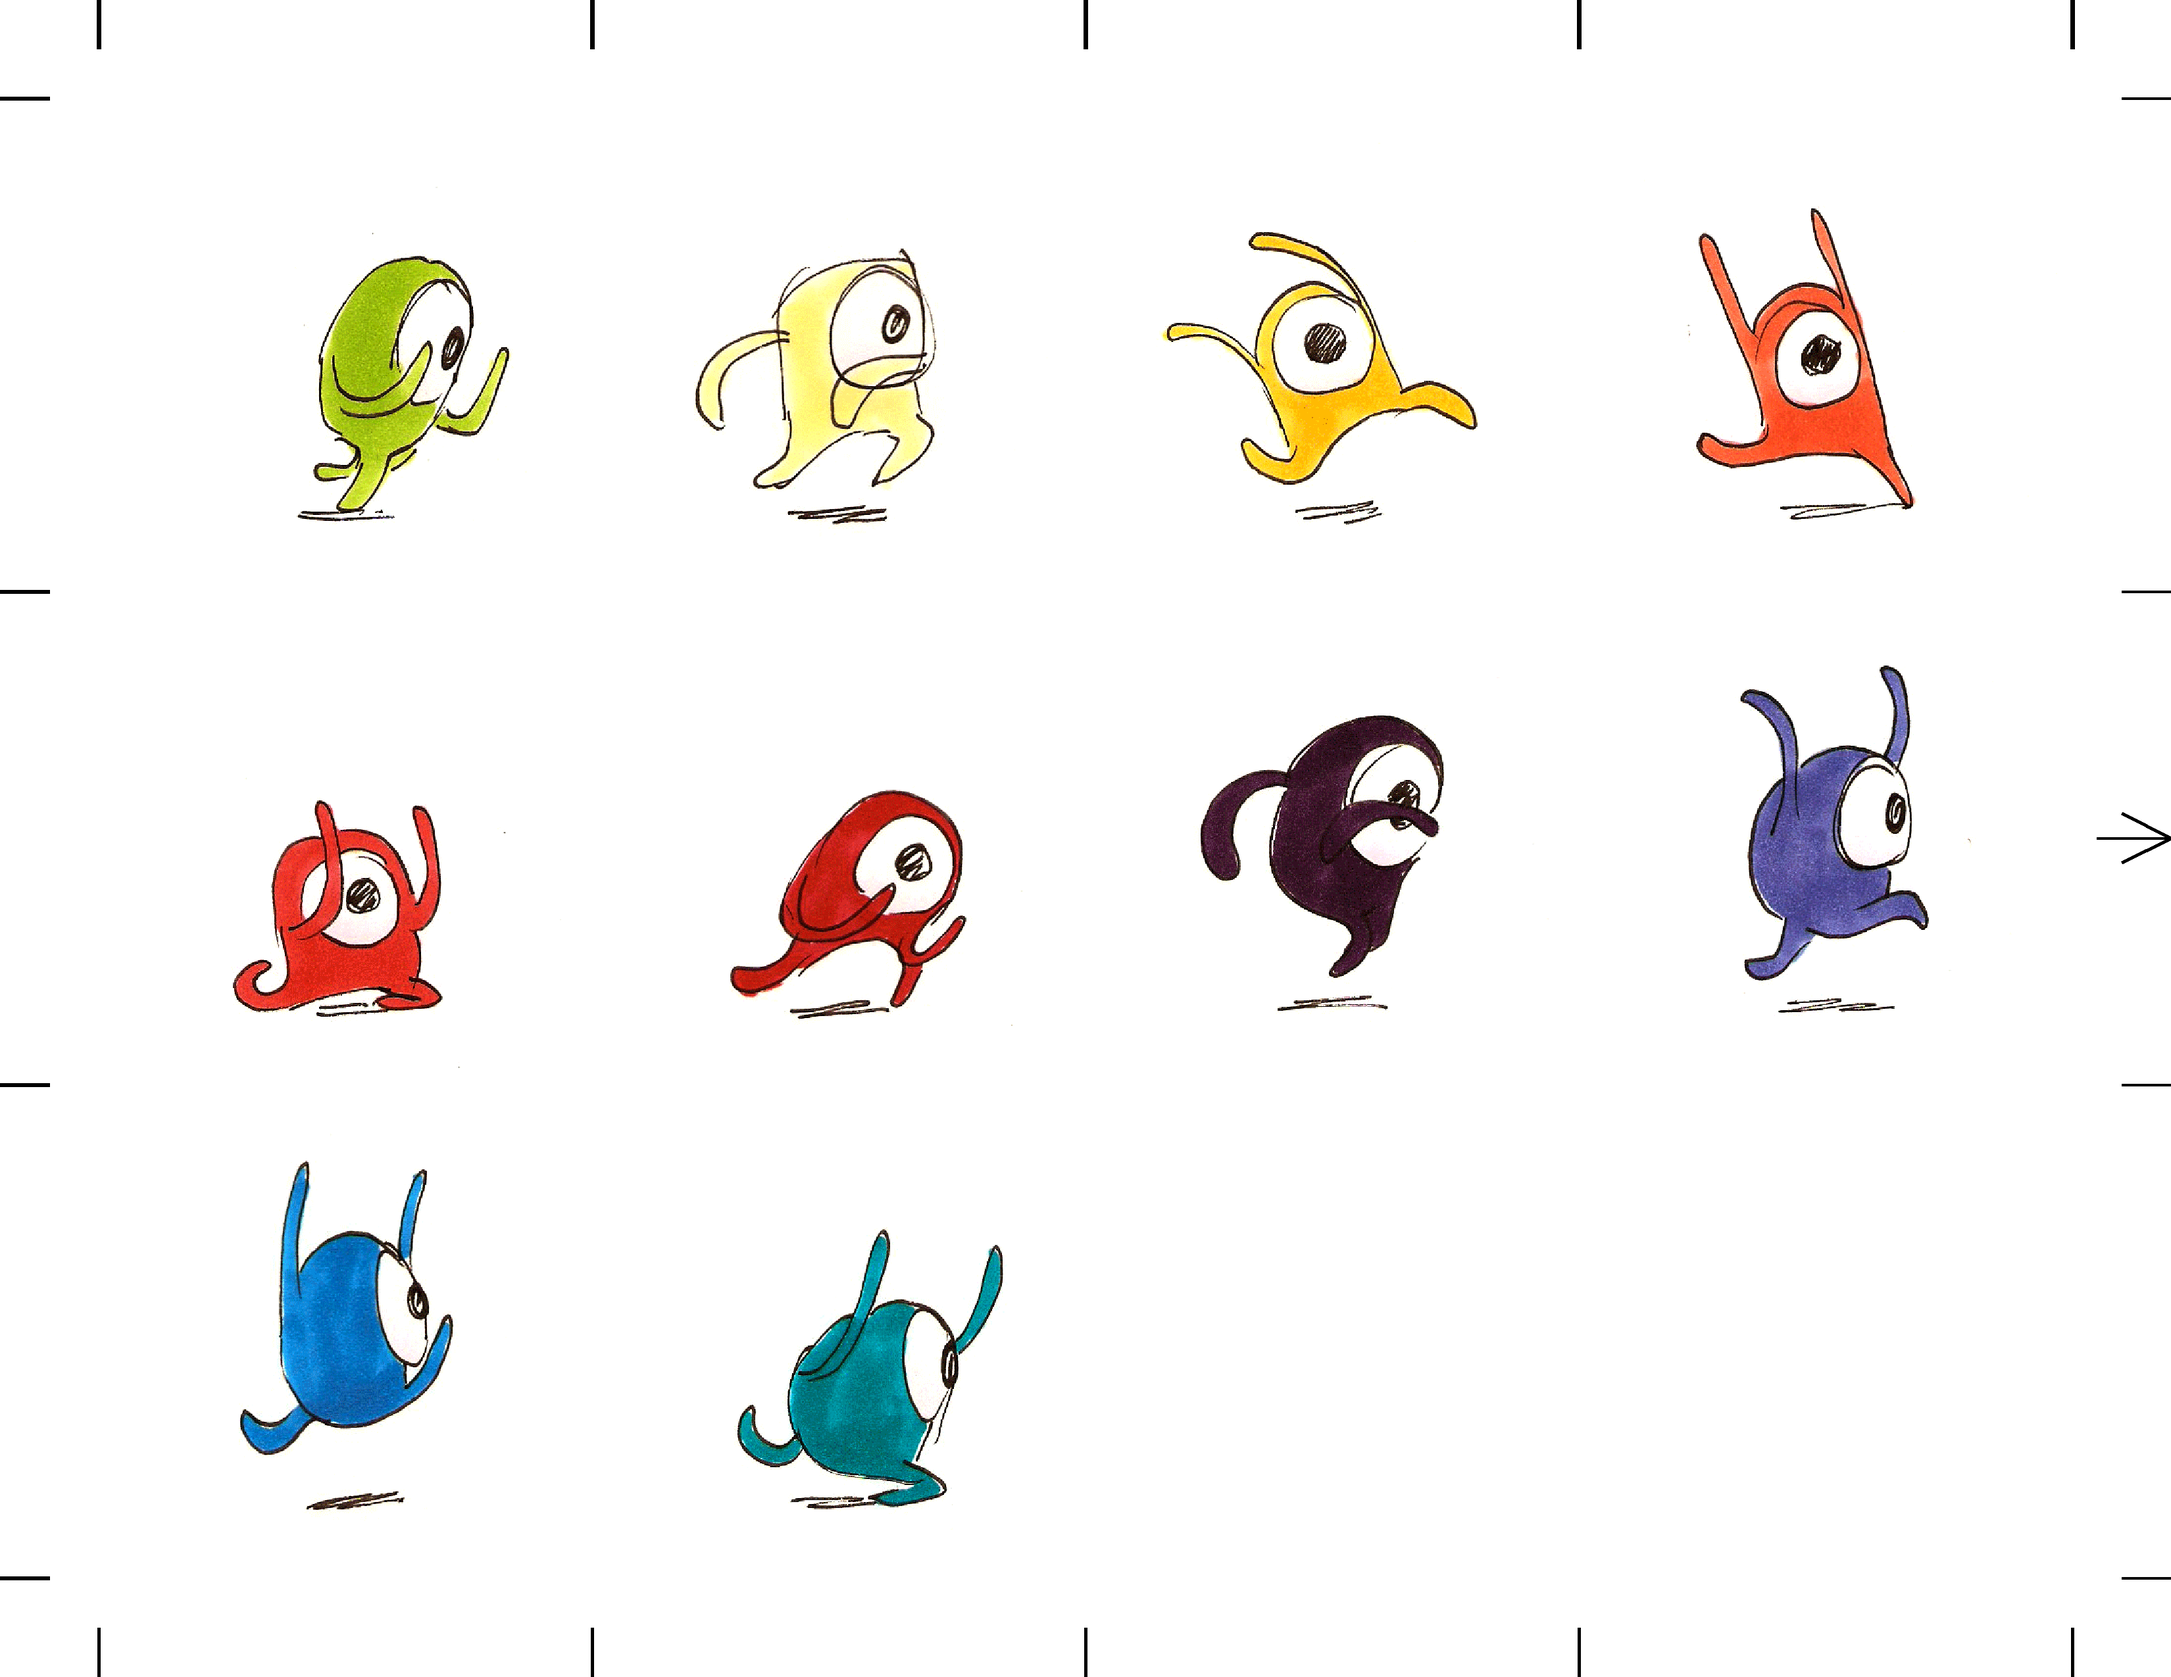
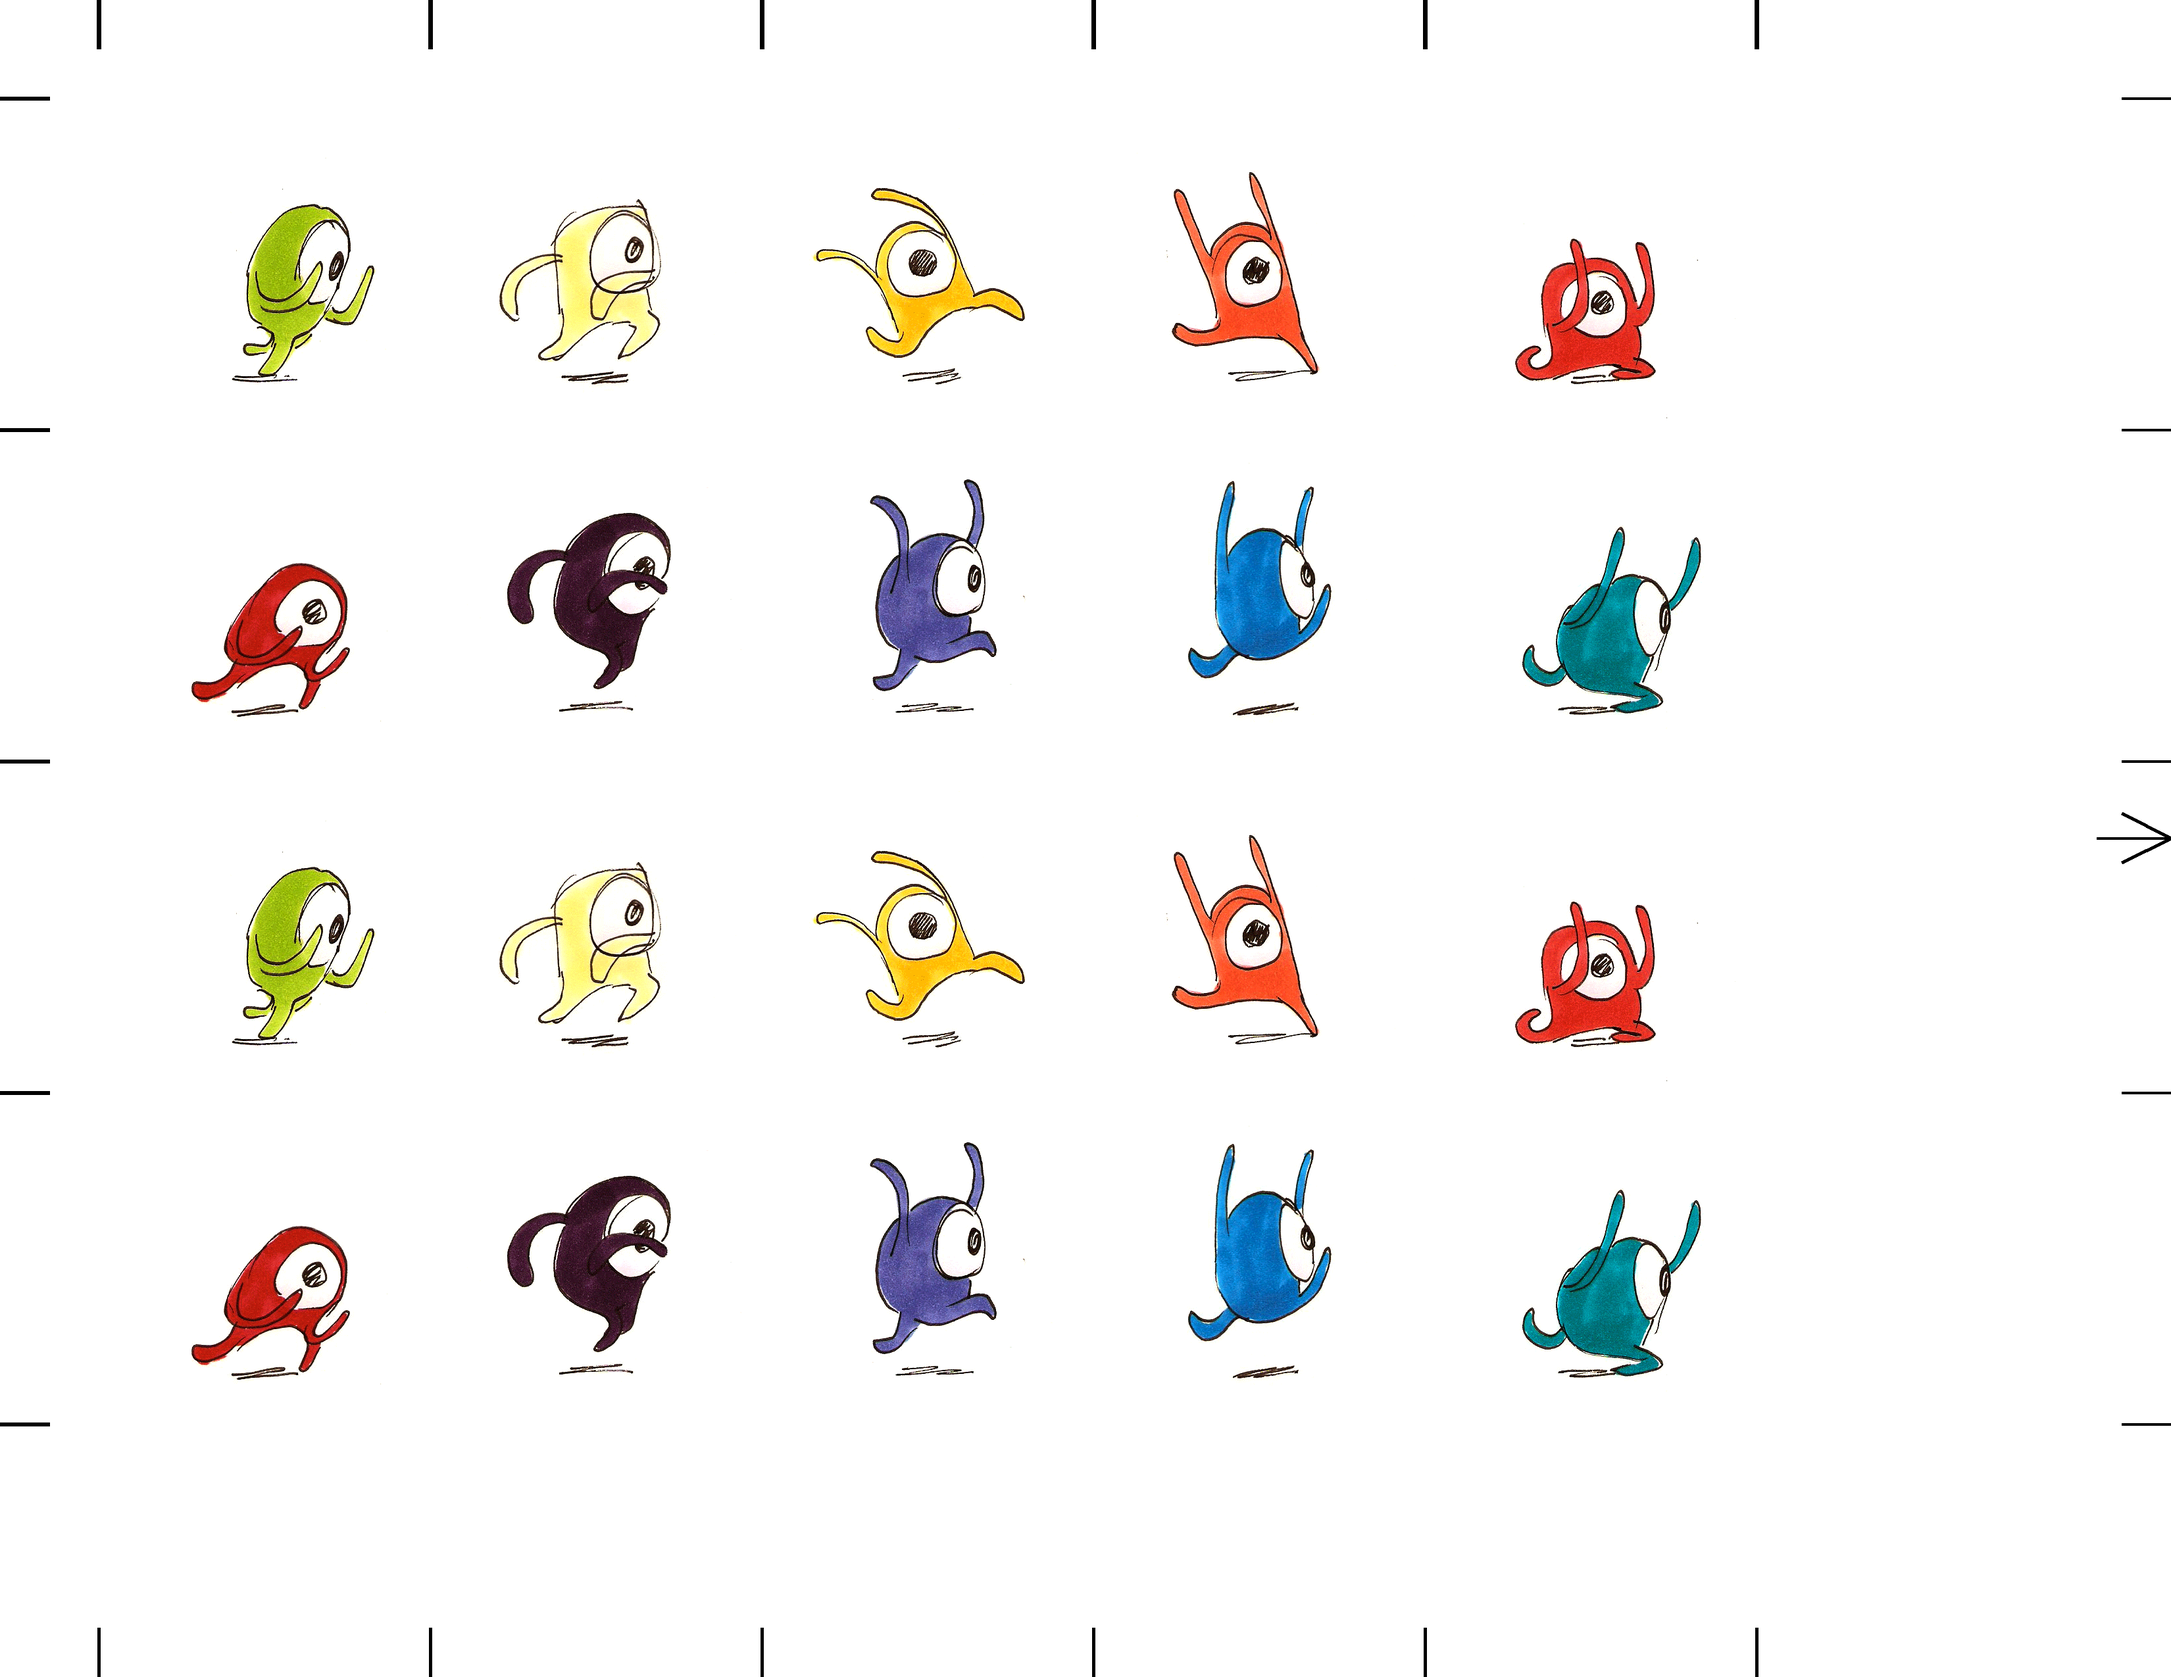
Made gif2 option, wrote readme.

diff --git a/src/Flipbook.py b/src/Flipbook.py
@@ -17,6 +17,7 @@ BLACK = (0, 0, 0, 255)
 # TODO: pdf output, 1 pdf per gif
 # TODO: config file
 # TODO: gifs of different lengths: loop shorter opiton
+# TODO: specify output directory
 
 class Flipbook(object):
     def __init__(self, config):
@@ -30,21 +31,25 @@ class Flipbook(object):
 
     def create(self):
         gif1 = Image.open(self.gif1)
-        gif2 = Image.open(self.gif2)
-
-        assert gif1.size == gif2.size, \
-               "Both gifs must be the same size (for now)"
-
         gif1_frames = [im.copy() for im in ImageSequence(gif1)]
-        gif2_frames = [im.copy() for im in ImageSequence(gif2)]
 
-        # Truncate to length of shortest gif and loop if requested
-        min_length = min(len(gif1_frames), len(gif2_frames))
+        if self.gif2:
+            gif2 = Image.open(self.gif2)
+            assert gif1.size == gif2.size, \
+                   "Both gifs must be the same size (for now)"
+            gif2_frames = [im.copy() for im in ImageSequence(gif2)]
+
+            # Truncate to length of shortest gif and loop if requested
+            min_length = min(len(gif1_frames), len(gif2_frames))
+            gif2_frames = gif2_frames[:min_length] * self.repeat
+        else:
+            min_length = len(gif1_frames)
+
         gif1_frames = gif1_frames[:min_length] * self.repeat
-        gif2_frames = gif2_frames[:min_length] * self.repeat
-
         self.add_gif(gif1_frames, gif1.size, self.pages1)
-        self.add_gif(gif2_frames, gif2.size, self.pages2, backwards=True)
+
+        if self.gif2:
+            self.add_gif(gif2_frames, gif2.size, self.pages2, backwards=True)
 
     def add_gif(self, gif, size, pages, backwards=False):
         if backwards:

diff --git a/flip.py b/flip.py
@@ -14,7 +14,7 @@ if __name__ == "__main__":
         help="The filename of the first GIF to use."
     )
     parser.add_argument(
-        'gif2', metavar='G2', type=str,
+        'gif2', metavar='G2', type=str, nargs='?', default="",
         help="The filename of the second GIF to use."
     )
     parser.add_argument(
@@ -38,6 +38,8 @@ if __name__ == "__main__":
 
     flipbook = Flipbook(args)
     flipbook.create()
-    pages = flipbook.get_all_pages()
-    for i, page in enumerate(pages):
-        page.save("output{}.png".format(i))
+    pages = flipbook.get_grouped_pages()
+    for i, page in enumerate(pages[0]):
+        page.save("output-a-{}.png".format(i))
+    for i, page in enumerate(pages[1]):
+        page.save("output-b-{}.png".format(i))

diff --git a/README.md b/README.md
@@ -1,2 +1,44 @@
 # flip.py
 Transform your GIFs into printed flipbooks with a single command!
+
+flip.py takes one or two GIF images formats them into images that can easily be printed and cut into a flipbook.
+
+## Single GIF flipbook
+If you provide only a single GIF to flip.py, it will format a one-sided flipbook.
+
+```
+./flip.py test_images/rainbowgoof.gif
+```
+
+This will produce a series of images `output-a-<page_num>.png` that can be printed as individual pages and cut along the guidelines into a flipbook.
+
+## Double GIF flipbook
+You can specify two GIFs to produce a two-sided flipbook. If the two GIFs are of different lengths, the longer one will be truncated to be the same length as the shorter. The GIFs must be the same dimensions.
+
+```
+./flip.py test_images/rainbowboof.gif test_images/rainbowgoof.gif
+```
+
+This will produce two series of images: `output-a-<page_num>.png` and `output-b-<page_num>.png`. You can then print all the images in the `output-a-<page_num>.png` series, then put them back into the printer face up with the arrow in the margin pointing into the printer and print the `output-b-<page_num>.png` series. This should provide you a two sided flipbook when you cut along the guidelines.
+
+This has only been tested on my printer, so your mileage may vary.
+
+## OTher configuration
+flip.py will try to fit as many frames as possible on each page using a landscape alignment. If you want to specify the number of rows of frames, or the number of frames per column, you can use the `--rows` or `--cols` arguments respectively. The aspect ratio of your GIF will always be maintained, so only one of these should be specified. If both are specified, `--cols` will be ignored.
+
+```
+# scale images to fit 3 rows per page
+flip.py test_images/rainbowgoof.gif --rows 3
+```
+
+You can also repeat the GIFs multiple times for a longer flipbook.
+
+```
+#repeat gif 3 times
+flip.py test_images/rainbowgoof.gif --repeat 3
+```
+
+## Test images and sample outputs
+You can see sample outputs in the `sample_outputs` folder and play with the test images in the `test_images` folder.
+
+Sample GIFs and inspiration provided by (Courtney Garvin)[http://courtgarvin.blogspot.ca/].

diff --git a/sample_output/SAMPLE_OUTPUT.md b/sample_output/SAMPLE_OUTPUT.md
@@ -1,0 +1,4 @@
+These images are the result of running:
+```
+./flip.py test_images/rainbowgoof.gif test_images/rainbowgoof.gif --repeat 3
+```
